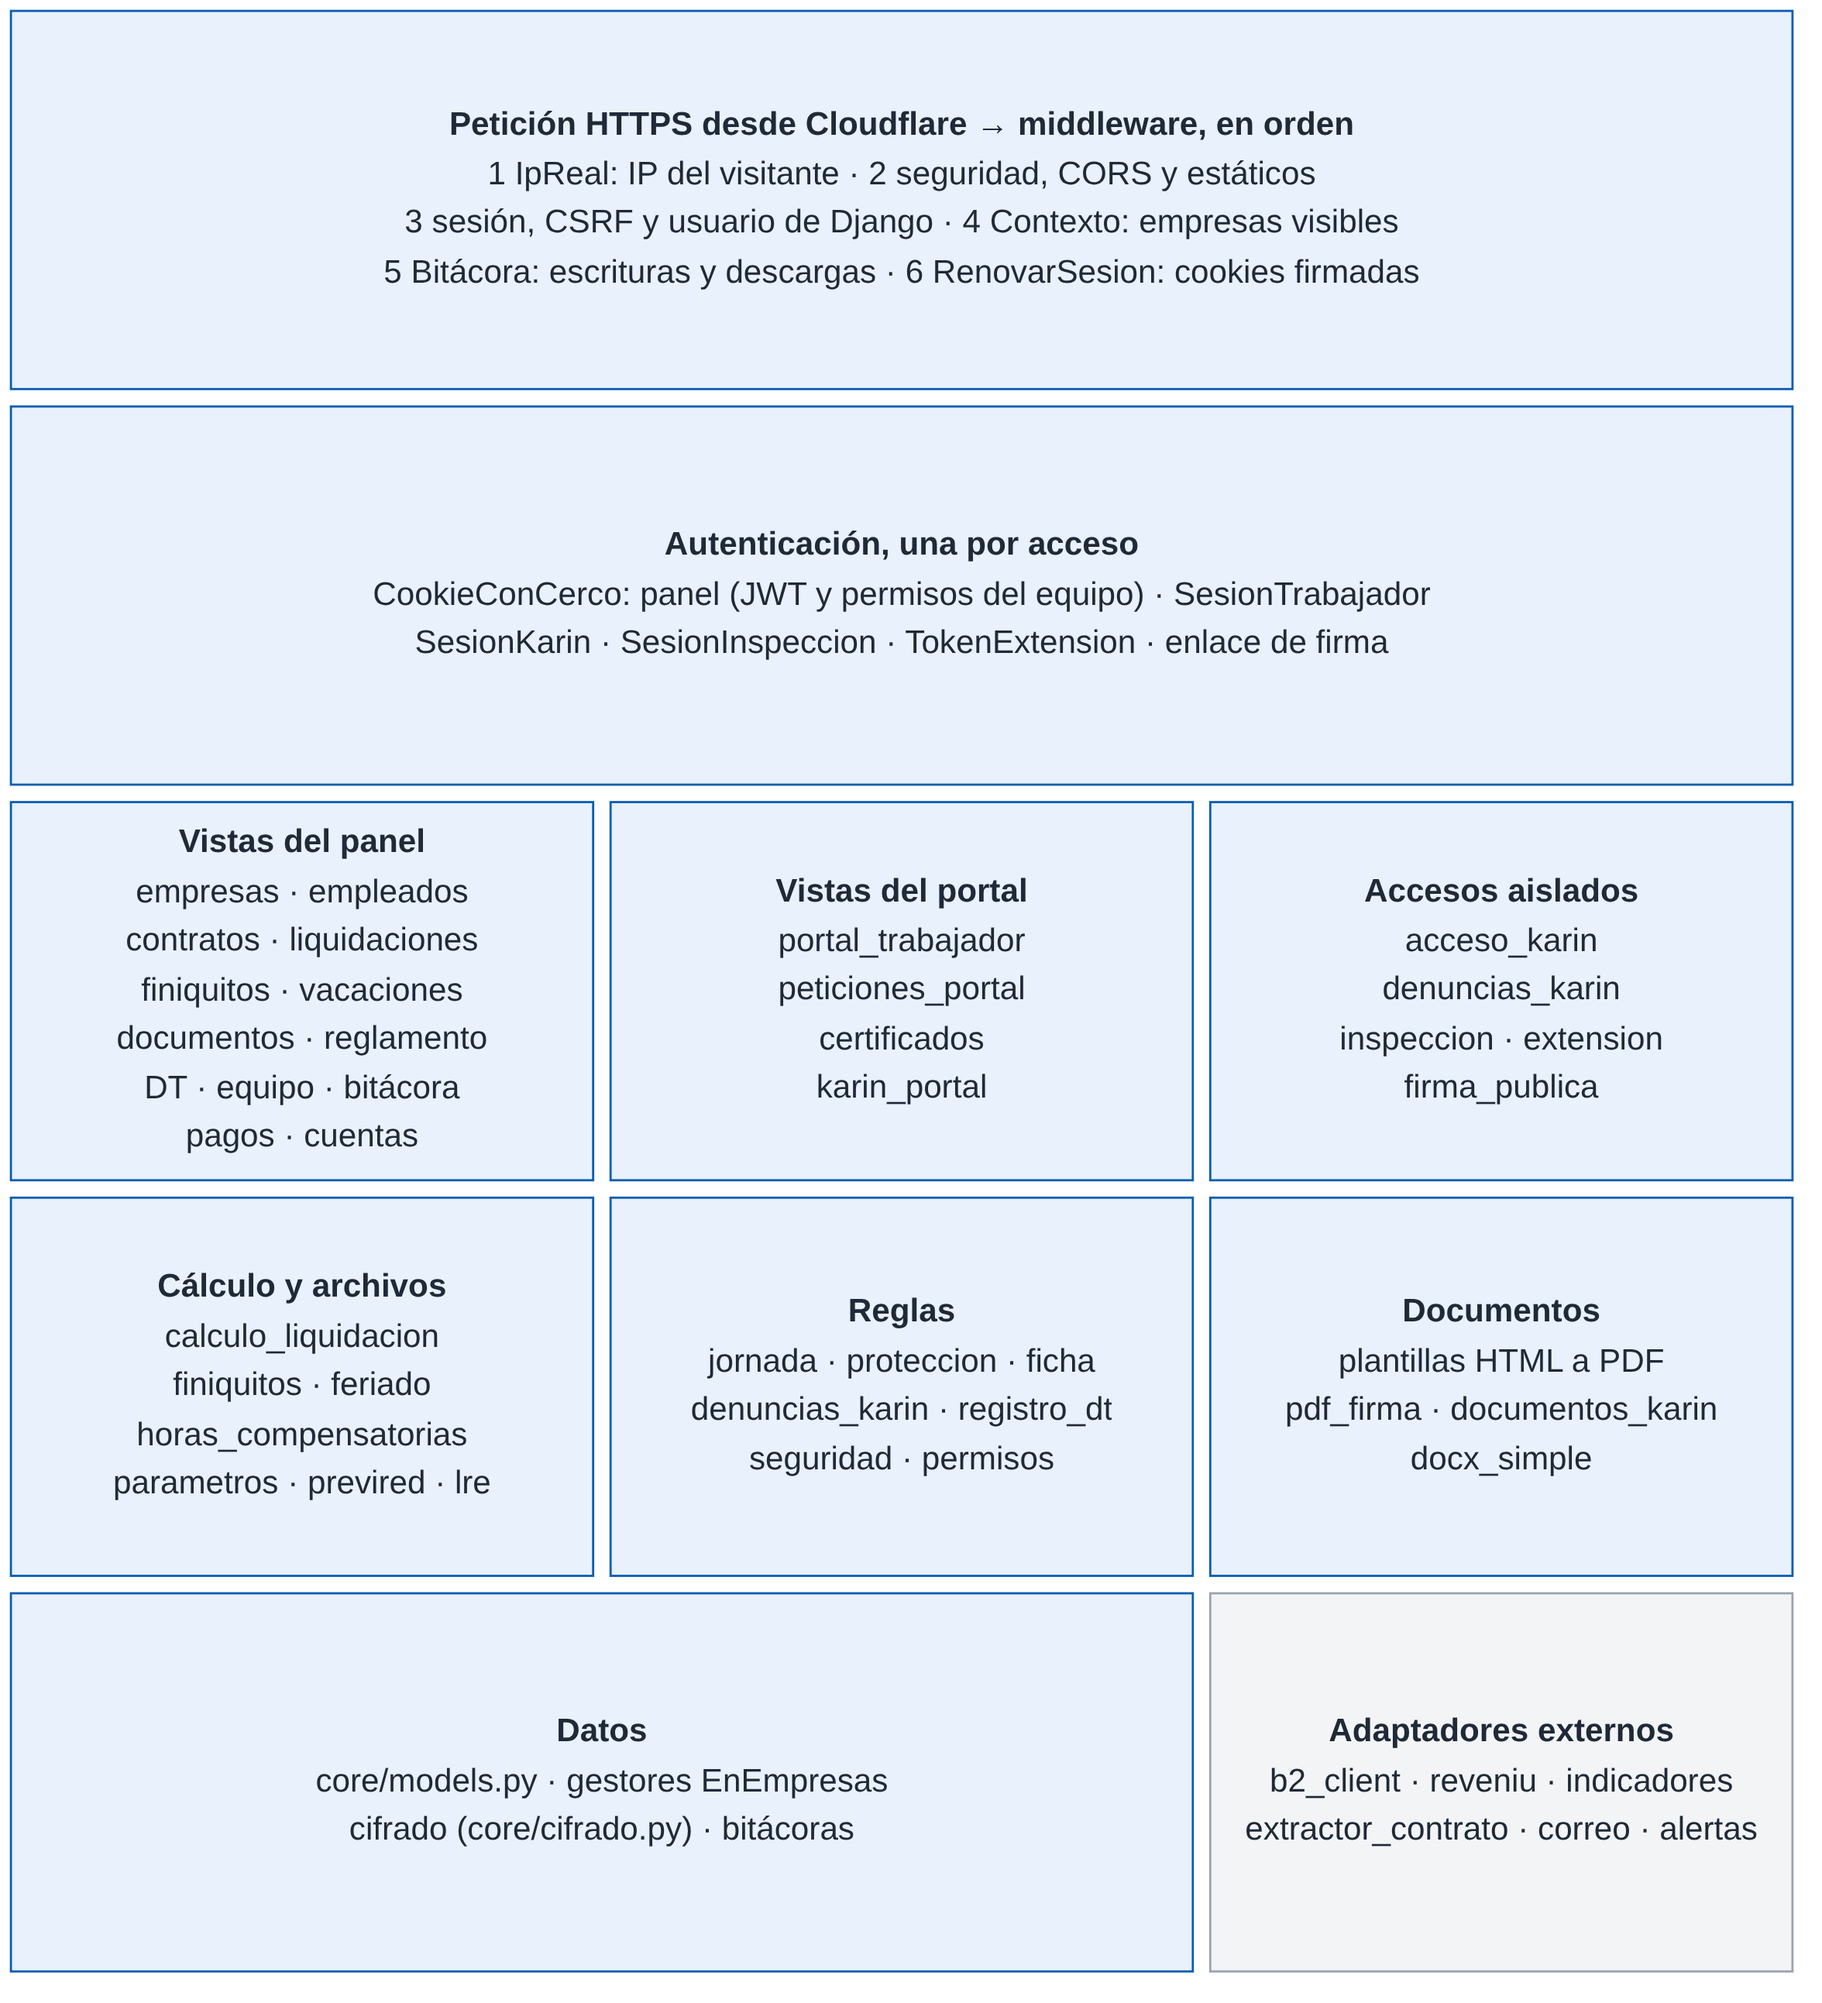
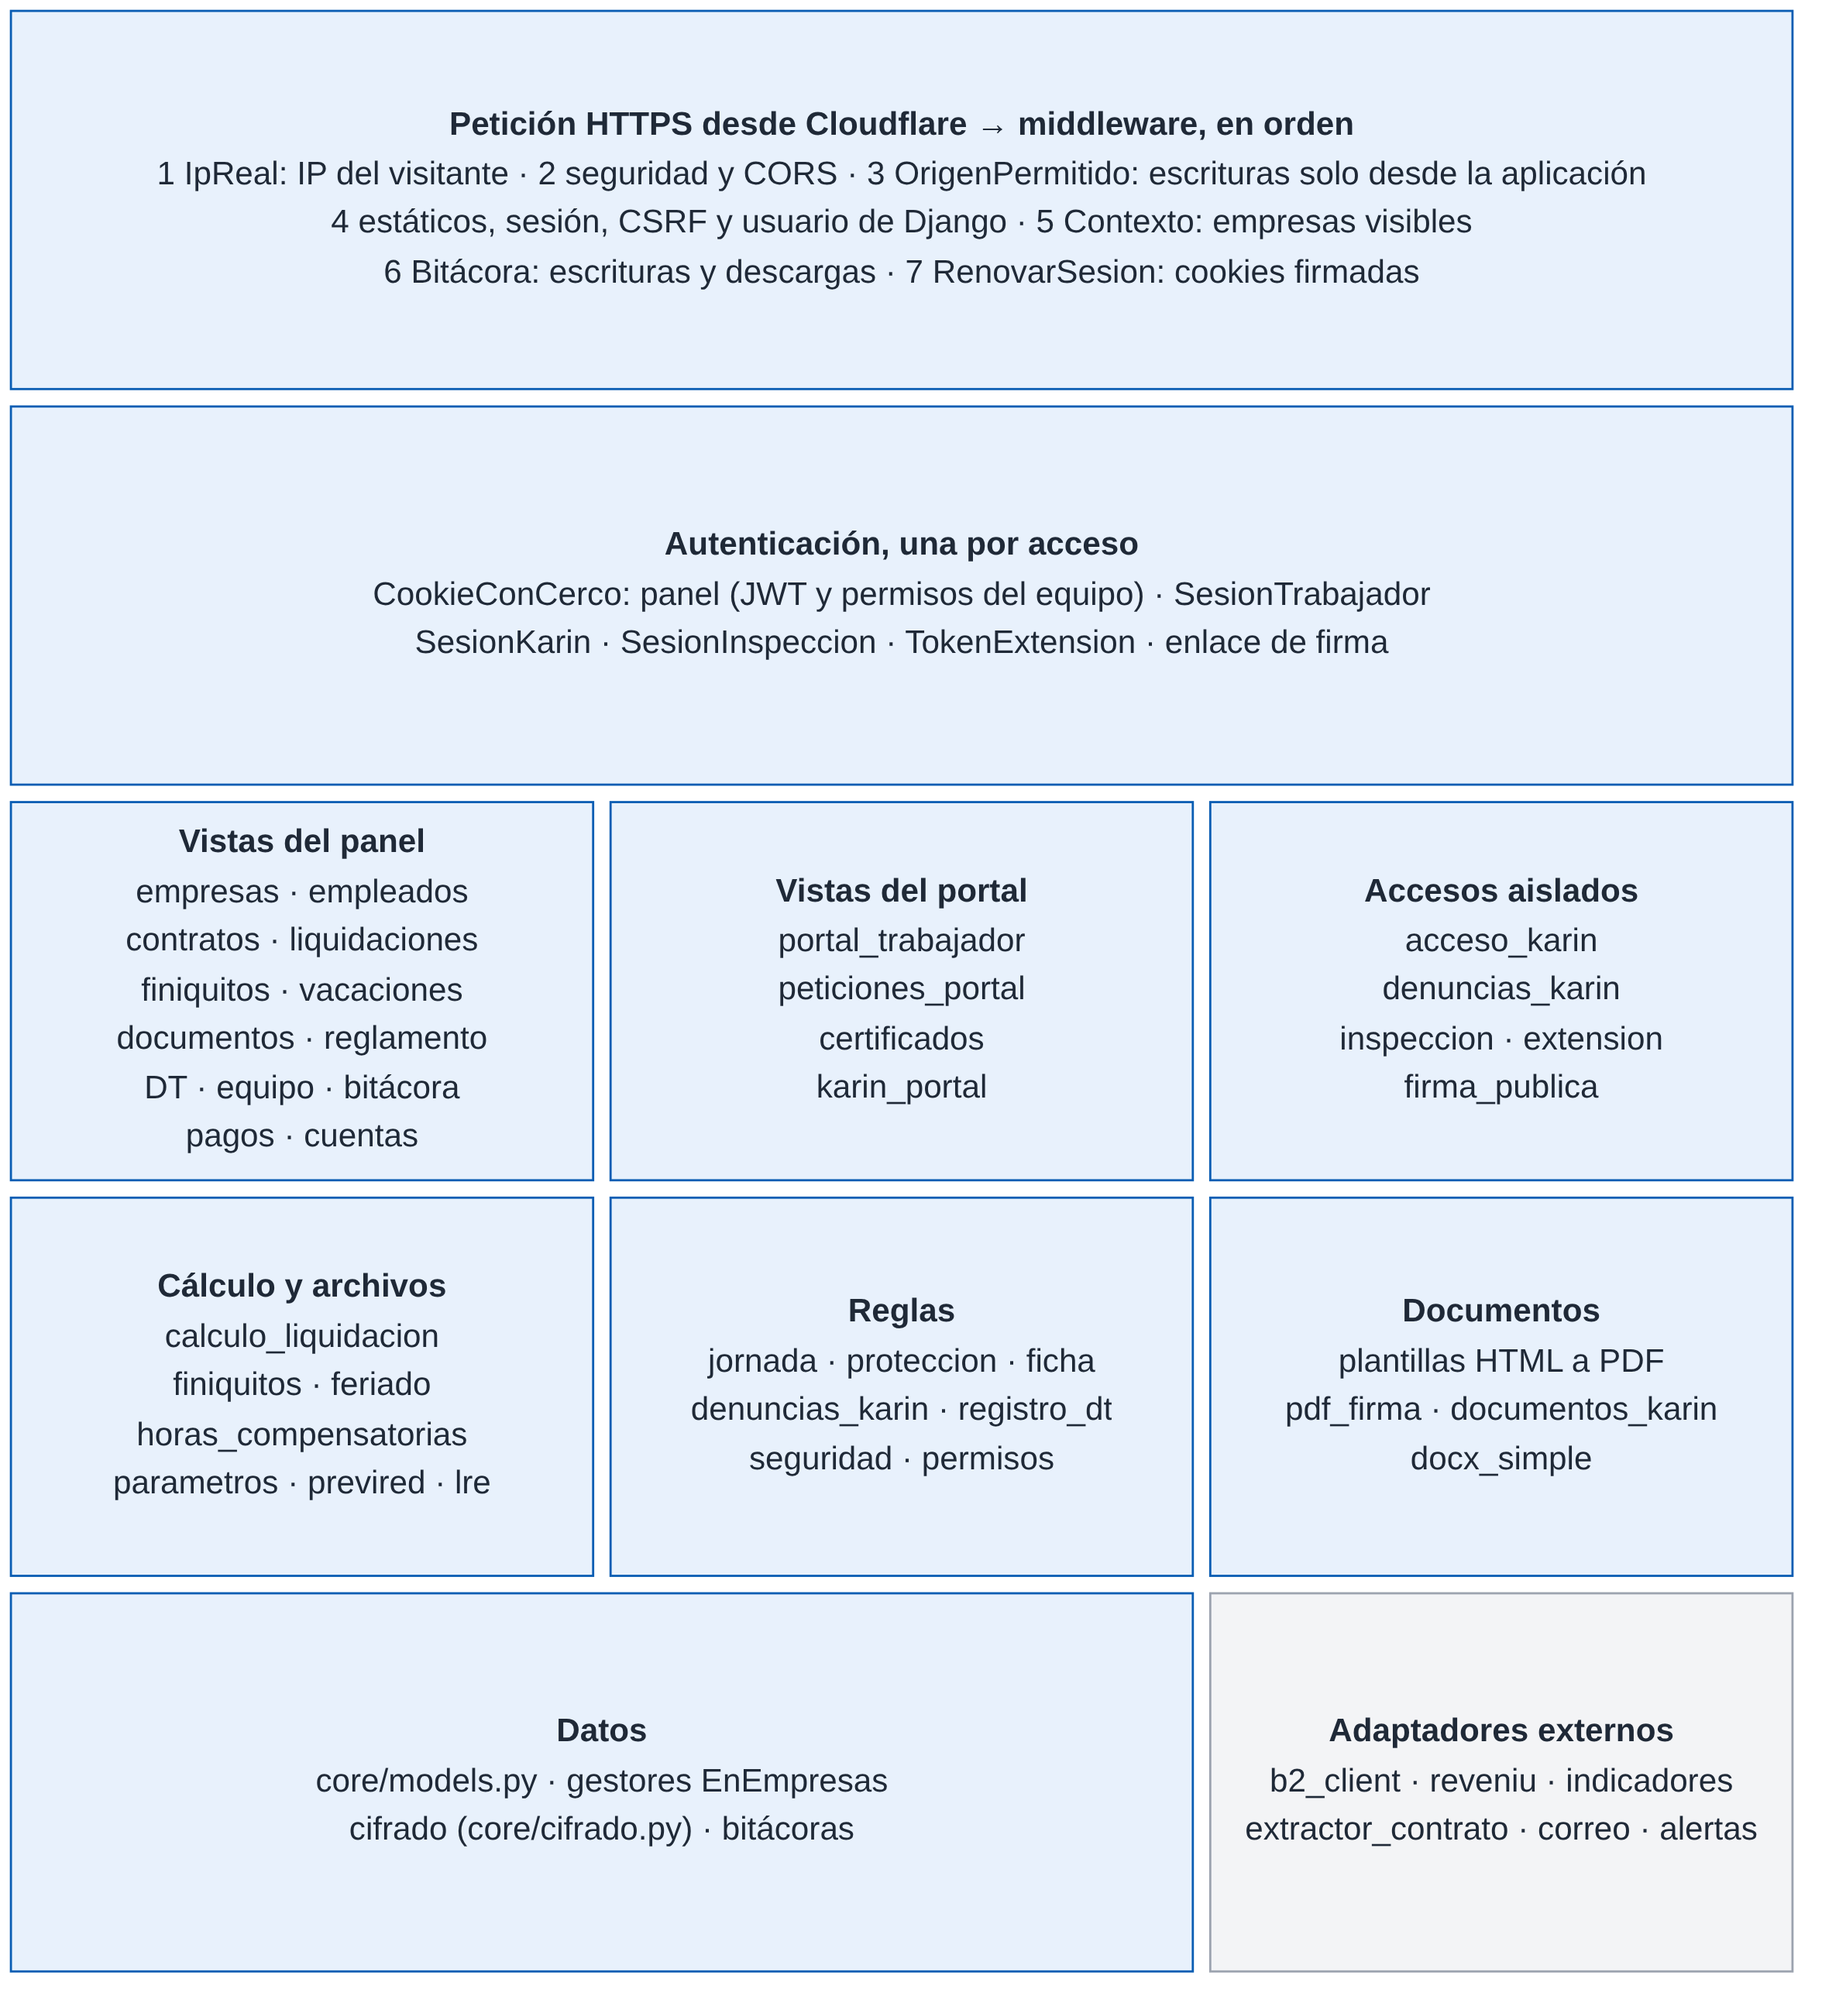
Documento técnico 0.3.1: corrección de CSRF y del arranque
- Capítulo 4: la revisión del origen de las escrituras y las cookies
  SameSite=Lax en producción (sección 4.7, nueva ADR-21), el middleware en
  la vista de componentes y el arranque que se detiene si falla una
  migración (marcados [Solo en staging]).
- Capítulo 7, resumen ejecutivo y sección 1.2.3 al día con la corrección.
- Versión 0.3.1, que describe el commit 45e3d65.

Claude-Session: https://claude.ai/code/session_01AqrH1QDMhfs4UcmB85sb1Z

Changed region(s): [[0.1862, 0.0619, 0.9001, 0.1237], [0.0931, 0.0619, 0.1552, 0.0928]]

diff --git a/docs/tecnico/07-interfaces.md b/docs/tecnico/07-interfaces.md
@@ -80,7 +80,7 @@ El menú lateral muestra solo lo que la persona puede usar según su permiso y s
 | Dirección base | `https://api.jornada40.cl/api/` en producción; en las pruebas, la del ambiente de staging |
 | Formato | JSON en ambos sentidos. Los archivos se suben con `multipart/form-data` y se descargan como binarios con `Content-Disposition` |
 | Identificación | Según el acceso (sección 4.7): cookies del panel, cookies firmadas de cada portal, token de la extensión, o el token de la solicitud en la firma |
-| Orígenes | Solo los de la lista de CORS, con credenciales. Encabezados que la aplicación web puede leer: `Content-Disposition`, `X-Documento-Firmado` y `Retry-After` |
+| Orígenes | Solo los de la lista de CORS, con credenciales. **[Solo en staging]** Una escritura que viene de otro origen recibe 403 (sección 4.7). Encabezados que la aplicación web puede leer: `Content-Disposition`, `X-Documento-Firmado` y `Retry-After` |
 | Nombres | Recursos en español y en plural (`/empleados/`, `/liquidaciones/`). Las acciones van después del recurso, por ejemplo `/liquidaciones/simular/` o `/firmas/{id}/reenviar/` |
 | Paginación | Las listas del enrutador responden por páginas de 200: `{count, next, previous, results}`. La aplicación web lee también las respuestas sin paginar (`src/api/lista.ts`) |
 | Versiones | Sin versión en la ruta, porque la API y la aplicación web se publican juntas. La extensión, que se actualiza aparte, usa `/api/extension/v1/` |
@@ -120,7 +120,7 @@ El menú lateral muestra solo lo que la persona puede usar según su permiso y s
 | 200, 201, 204 | Éxito: consulta, creación y operación sin contenido |
 | 400 | Datos inválidos o una regla que lo impide, con el motivo en `error`. Es la respuesta más frecuente: unas 235 en el código |
 | 401 | Sin sesión o sesión vencida; en el panel, la aplicación web intenta renovar. También: secreto inválido en el aviso de pago |
-| 403 | Sin permiso: cerco del equipo, recurso de otra cuenta o sesión de firma inválida |
+| 403 | Sin permiso: cerco del equipo, recurso de otra cuenta, sesión de firma inválida o una escritura que viene de otro origen |
 | 404 | No existe o no pertenece a quien pregunta; ambos casos responden igual |
 | 405, 415 | Método o formato no admitido (DRF); por ejemplo, un formulario en una ruta que solo acepta JSON |
 | 409 | Duplicado, como una segunda liquidación del mismo período |

diff --git a/docs/tecnico/00-resumen-ejecutivo.md b/docs/tecnico/00-resumen-ejecutivo.md
@@ -49,7 +49,8 @@ La integración continua ejecuta estas pruebas, el análisis estático y la audi
 
 - la extensión para Mi DT;
 - las alertas de errores por correo;
-- la actualización de las dependencias que tenían avisos de seguridad conocidos.
+- la actualización de las dependencias que tenían avisos de seguridad conocidos;
+- la protección de la API contra peticiones enviadas desde otros sitios (CSRF).
 
 **Principales limitaciones y riesgos.**
 
@@ -59,6 +60,6 @@ La integración continua ejecuta estas pruebas, el análisis estático y la audi
 - La firma es simple, no avanzada. Para que un finiquito tenga poder liberatorio debe ratificarse ante un ministro de fe o firmarse en Mi DT.
 - Mi DT no tiene una interfaz de programación (API). El registro se apoya en fichas para copiar y en una extensión que aún está en piloto.
 - Dos formatos de archivo esperan verificación con cargas reales: la indemnización a todo evento en Previred y el registro masivo de contratos en Mi DT.
-- Al documentar la arquitectura se detectaron puntos de seguridad por corregir. El principal: la API del panel no se protege contra formularios enviados desde otros sitios (CSRF). Están registrados como pendientes y se analizan en el capítulo 8.
+- Al documentar la arquitectura se detectaron puntos de seguridad por corregir. El principal, que la API del panel aceptaba formularios enviados desde otros sitios (CSRF), ya está corregido en la versión de pruebas y falta publicarlo en producción. Los demás están registrados como pendientes y se analizan en el capítulo 8.
 
 **Este documento.** Sigue la estructura de los estándares ISO/IEC/IEEE 29148 (requerimientos), ISO/IEC/IEEE 42010 e IEEE 1016 (arquitectura y diseño) e ISO/IEC 25010 (calidad). Tiene trece capítulos y diez anexos. Esta versión {{version}} contiene la parte preliminar y los capítulos 1 a 7; el resto se completará en dos entregas más (sección 1.3).

diff --git a/docs/tecnico/00-preliminares.md b/docs/tecnico/00-preliminares.md
@@ -83,6 +83,7 @@ Control de versiones
 | 0.1     | 11-10-2026  | Equipo de desarrollo     | Primera entrega (1 de 5): parte preliminar, resumen ejecutivo, capítulo 1 (Introducción) y capítulo 2 (Descripción general del sistema). |
 | 0.2     | 12-10-2026  | Equipo de desarrollo     | Segunda entrega (2 de 5): capítulo 3 (Requerimientos), con 199 requerimientos funcionales, 44 reglas de negocio y 41 no funcionales, y ejemplos numéricos verificados por la prueba automática `test_ejemplos_documento`. |
 | 0.3     | 12-10-2026  | Equipo de desarrollo     | Tercera entrega (3 de 5): capítulos 4 (Arquitectura), 5 (Diseño detallado), 6 (Modelo de datos) y 7 (Interfaces), con diagramas generados desde el código y capturas de pantalla con datos de prueba. |
+| 0.3.1   | 12-10-2026  | Equipo de desarrollo     | Revisión de la entrega 3: describe la corrección del hallazgo de CSRF (revisión del origen de las escrituras y cookies `SameSite=Lax` en producción, ADR-21) y el arranque que se detiene si falla una migración. |
 
 ::: {custom-style="Título de página"}
 Índice general

diff --git a/docs/tecnico/README.md b/docs/tecnico/README.md
@@ -10,7 +10,7 @@ Sigue la estructura de los estándares ISO/IEC/IEEE 29148 (requerimientos), ISO/
 |---------|------------------------------------------------------------------|----------------------|
 | 1       | Parte preliminar, resumen ejecutivo, capítulos 1 y 2             | Lista (v0.1, 11-10-2026) |
 | 2       | Capítulo 3: requerimientos y reglas de negocio                   | Lista (v0.2, 12-10-2026) |
-| 3       | Capítulos 4 a 7: arquitectura, diseño, datos e interfaces        | Lista (v0.3, 12-10-2026) |
+| 3       | Capítulos 4 a 7: arquitectura, diseño, datos e interfaces        | Lista (v0.3.1, 12-10-2026) |
 | 4       | Capítulos 8 a 10: seguridad, datos personales y cumplimiento     | Pendiente            |
 | 5       | Capítulos 11 a 13, anexos A a J y revisión final                 | Pendiente            |
 

diff --git a/docs/tecnico/01-introduccion.md b/docs/tecnico/01-introduccion.md
@@ -44,6 +44,7 @@ A la fecha de corte, la versión de pruebas agrega lo siguiente a la de producci
   - alertas de errores por correo;
   - configuración de SQLite para desarrollo;
   - medición de cobertura, análisis estático y revisión de accesibilidad;
+- correcciones de seguridad y operación: la API rechaza las escrituras que vienen de otros sitios (CSRF), las cookies de sesión de producción pasan a `SameSite=Lax` y el servidor no arranca si falla una migración;
 - documentación.
 
 ## Audiencia y organización del documento {#sec-audiencia}
